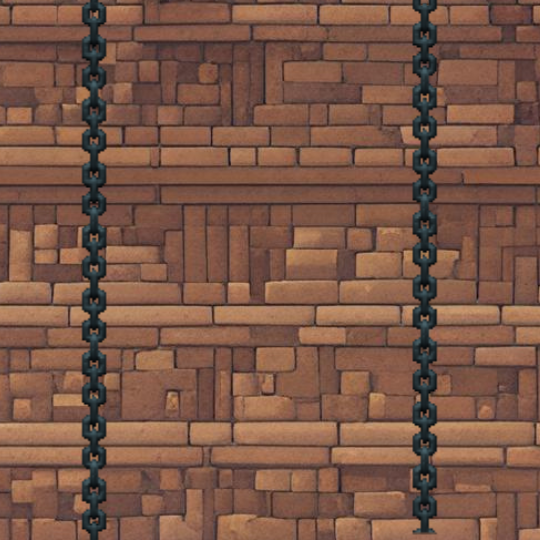
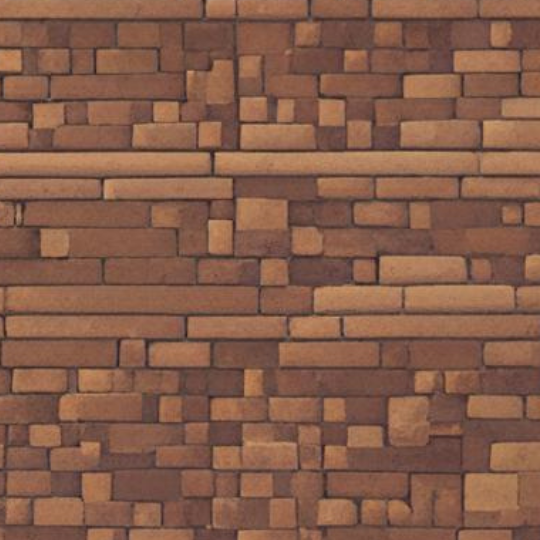
corrige logica p cenarios

diff --git a/src/Componentes/SingleplayerGame/FasesSelection/FaseSelection.jsx b/src/Componentes/SingleplayerGame/FasesSelection/FaseSelection.jsx
@@ -46,7 +46,7 @@ export function FaseSelection( props) {
                 <image  className='twotothree'></image>
                    { fasesConcluidas.map((fase, index) => {
                         if(fase === 1){
-                            return <div className = {'seletorDeFase Concluida fase'+index} style={{gridRow:index+1}} onClick={ () => goTo(index+1)}></div>
+                            return <div className = {'seletorDeFase fase'+index} style={{gridRow:index+1}} onClick={ () => goTo(index+1)}></div>
                         }else{
                             return <div className = {'seletorDeFase Concluida fase'+index} style={{gridRow:index+1}} onClick={ () => goTo(index+1)}></div>
 

diff --git a/src/Componentes/SingleplayerGame/SinglePlayer.css b/src/Componentes/SingleplayerGame/SinglePlayer.css
@@ -99,6 +99,13 @@
     background-position: center !important;
     background-repeat: no-repeat !important;
 }
+.GameCenario3{
+    background: url(/src//Assets/Cenarios/3.png) !important;  
+
+    background-size: cover !important;
+    background-position: center !important;
+    background-repeat: no-repeat !important;
+}
 .GameArea .GameControls{
     display: flex;
     justify-content: flex-start;

diff --git a/src/Componentes/SingleplayerGame/FasesSelection/FaseSelection.css b/src/Componentes/SingleplayerGame/FasesSelection/FaseSelection.css
@@ -138,3 +138,6 @@
 .fase1{
     background-image: url('../../../Assets/Cenarios/2.png');
 }
+.fase2{
+    background-image: url('../../../Assets/Cenarios/3.png');
+}
